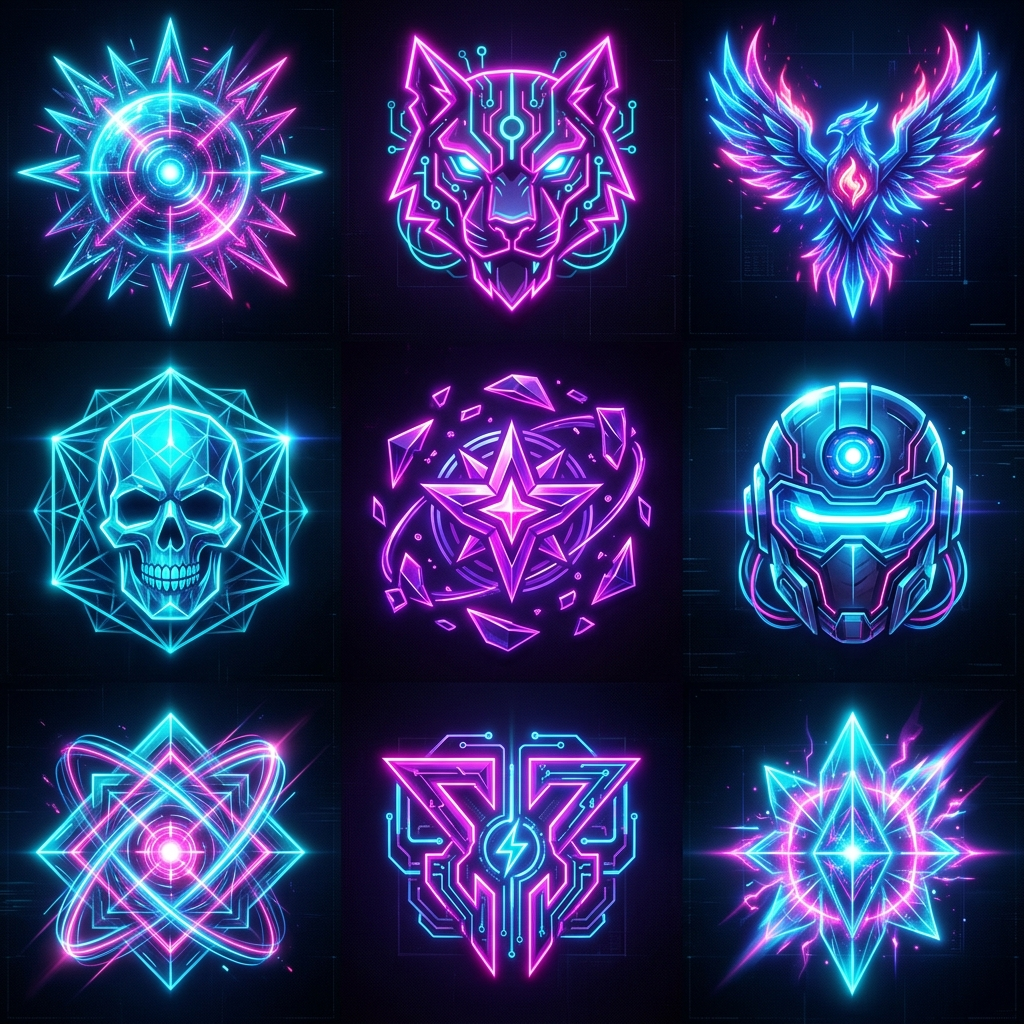
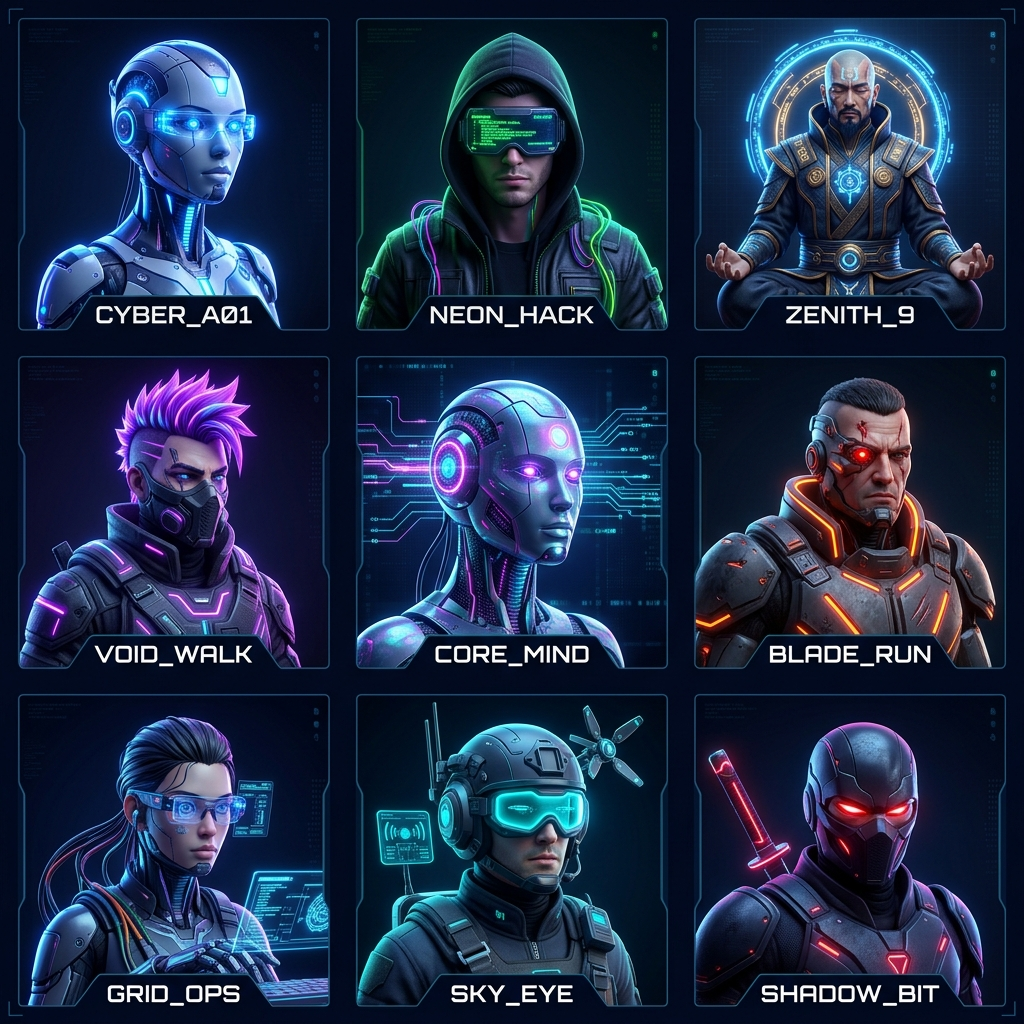
🚀 FINAL PRODUCTION RELEASE: BlockBlast Web3 v1.0.0 - HDR Ultra assets, 9540 Levels, Personalized Profiles, and Solana Wallet integration. DEPLOY READY.

diff --git a/components/CustomWalletButton.tsx b/components/CustomWalletButton.tsx
@@ -53,6 +53,27 @@ export default function CustomWalletButton() {
     }
   };
 
+  const [username, setUsername] = useState<string | null>(null);
+  const [avatarIdx, setAvatarIdx] = useState<number>(0);
+
+  // Sync with localStorage
+  useEffect(() => {
+    const storedUsername = localStorage.getItem('bb_username');
+    const storedAvatar = localStorage.getItem('bb_avatar');
+    if (storedUsername) setUsername(storedUsername);
+    if (storedAvatar) setAvatarIdx(parseInt(storedAvatar));
+
+    // Listen for storage changes (if user changes name on profile page)
+    const handleStorageChange = () => {
+      const u = localStorage.getItem('bb_username');
+      const a = localStorage.getItem('bb_avatar');
+      if (u) setUsername(u);
+      if (a) setAvatarIdx(parseInt(a));
+    };
+    window.addEventListener('storage', handleStorageChange);
+    return () => window.removeEventListener('storage', handleStorageChange);
+  }, []);
+
   if (!connected || !publicKey) {
     return (
       <button 
@@ -90,6 +111,12 @@ export default function CustomWalletButton() {
   const base58 = publicKey.toBase58();
   const avatarGrad = generateAvatarGradient(base58);
 
+  const getAvatarStyle = (idx: number) => ({
+    backgroundImage: 'url("/assets/avatars/all.png")',
+    backgroundSize: '300% 300%',
+    backgroundPosition: `${(idx % 3) * 50}% ${Math.floor(idx / 3) * 50}%`,
+  });
+
   return (
     <div style={{ position: 'relative' }} ref={dropdownRef}>
       {/* Connected Button */}
@@ -114,13 +141,19 @@ export default function CustomWalletButton() {
           width: '28px',
           height: '28px',
           borderRadius: '50%',
-          background: avatarGrad,
+          background: avatarIdx === 0 ? avatarGrad : 'none',
+          ...(avatarIdx > 0 ? getAvatarStyle(avatarIdx) : {}),
           display: 'flex',
           alignItems: 'center',
           justifyContent: 'center',
           boxShadow: 'inset 0 0 0 1px rgba(255,255,255,0.2)',
           position: 'relative',
         }}>
+          {avatarIdx === 0 && !wallet?.adapter.icon && (
+            <span style={{ fontSize: '10px', color: '#fff', fontWeight: 'bold' }}>
+              {(username || base58).slice(0, 1).toUpperCase()}
+            </span>
+          )}
           {wallet?.adapter.icon && (
             // eslint-disable-next-line @next/next/no-img-element
             <img 
@@ -151,7 +184,7 @@ export default function CustomWalletButton() {
             color: '#FFFFFF',
             lineHeight: 1
           }}>
-            {shortenAddress(base58)}
+            {username || shortenAddress(base58)}
           </span>
           <span style={{
             fontFamily: "'Plus Jakarta Sans', sans-serif",
@@ -174,6 +207,7 @@ export default function CustomWalletButton() {
           <polyline points="6 9 12 15 18 9"></polyline>
         </svg>
       </button>
+
 
       {/* Dropdown Menu */}
       {dropdownOpen && (

diff --git a/app/page.tsx b/app/page.tsx
@@ -17,10 +17,40 @@ export default function Home() {
       <div className="grid-overlay"></div>
       <div className="scanline-overlay"></div>
       
-      {/* Dynamic Floating Background */}
-      <GameBackground />
+      {/* Hero Background with generated asset */}
+      <div style={{
+        position: 'absolute',
+        top: 0,
+        left: 0,
+        width: '100%',
+        height: '100vh',
+        zIndex: -2,
+        overflow: 'hidden',
+      }}>
+        <div style={{
+          position: 'absolute',
+          top: 0,
+          left: 0,
+          width: '100%',
+          height: '100%',
+          backgroundImage: 'url("/assets/hero_bg.png")',
+          backgroundSize: 'cover',
+          backgroundPosition: 'center',
+          filter: 'brightness(0.6) contrast(1.1)',
+          transform: 'scale(1.05)',
+        }} />
+        <div style={{
+          position: 'absolute',
+          top: 0,
+          left: 0,
+          width: '100%',
+          height: '100%',
+          background: 'radial-gradient(circle at 50% 50%, transparent 0%, var(--bg-deep) 90%)',
+        }} />
+      </div>
 
       <section className={styles.hero}>
+
         <div className={styles.heroContent}>
           <div className="badge badge-cyan" style={{ marginBottom: '24px', animation: 'float 3s ease-in-out infinite' }}>
             SOLANA MAINNET READY

diff --git a/README.md b/README.md
@@ -1,120 +1,96 @@
-# 🎮 BlockBlast Web3: The Elite Skill-Based Puzzle Arena on Solana
+# 🚀 BLOCKBLAST WEB3: The Next-Gen Skill-Based Arcade on Solana
 
-[![Deployment Status](https://img.shields.io/badge/Status-Mainnet--Ready-00FF88?style=for-the-badge&logo=solana)](https://nngblockblast.vercel.app/)
-[![License](https://img.shields.io/badge/License-MIT-00F5FF?style=for-the-badge)](LICENSE)
-[![Built on Solana](https://img.shields.io/badge/Built%20on-Solana-FF00FF?style=for-the-badge)](https://solana.com)
+[![Website](https://img.shields.io/badge/Website-nngblockblast.vercel.app-00F5FF?style=for-the-badge&logo=vercel)](https://nngblockblast.vercel.app/)
+[![Solana](https://img.shields.io/badge/Solana-Devnet-00FFA3?style=for-the-badge&logo=solana)](https://explorer.solana.com/)
+[![License](https://img.shields.io/badge/License-MIT-magenta?style=for-the-badge)](LICENSE)
 
-**BlockBlast Web3** is a high-performance GameFi platform that transforms the addictive casual puzzle mechanic into a competitive, skill-based arcade. Powered by Solana and USDC, we offer a transparent, 0-modal prize distribution system where top strategic players earn real rewards.
-
----
-
-## 🚀 Key Value Propositions
-
-- **🎯 0% Luck, 100% Skill**: No RNG, no gambling. Every piece placement is a strategic decision.
-- **💰 Transparent Tokenomics**: 100% of ticket revenue is distributed via a verifiable on-chain split (70% Prize Pool, 15% Team, 10% Dev, 5% Referral).
-- **⛓️ Pure On-Chain Logic**: Weekly tournaments, prize distributions, and ticket burning are managed by Solana smart contracts.
-- **🌈 HDR Ultra Aesthetics**: A premium "Deep Space Neon Arcade" theme built entirely with high-performance CSS and Canvas rendering.
+> **"Skill is the only alpha."** BlockBlast Web3 is a high-performance, transparent, and hyper-competitive puzzle arena where strategic mastery translates directly into USDC rewards. Built for the Solana ecosystem, it eliminates RNG and gambling mechanics in favor of pure, verifiable strategy.
 
 ---
 
-## 🛠 Technical Architecture
+## 💎 Project Philosophy
 
-- **Frontend**: Next.js 14, React 18, TailwindCSS, HTML5 Canvas API.
-- **Blockchain**: Solana Web3.js, @solana/wallet-adapter (Phantom, Solflare, Backpack).
-- **Backend**: Vercel Serverless Functions, Supabase for leaderboard persistence.
-- **Smart Contracts**: Anchor Framework (Solana).
-
-### High-Performance Rendering
-Our engine uses a custom **HDR Ultra Renderer** (`lib/game/renderer.ts`) that supports:
-- High-density particle bursts on line clears.
-- Shockwave animations with dynamic scaling.
-- 3-stop gradient block rendering with inner gloss highlights.
-- Parallax idle background animations.
+In a landscape filled with speculative tokens and luck-based mechanics, BlockBlast Web3 stands as a beacon of transparency. We operate on a **0-Modal model**:
+- **70%** of all ticket revenue goes directly into the weekly Reward Pool.
+- **100% On-Chain transparency**: Every prize distribution is verifiable on Solana.
+- **Skill-Based Equilibrium**: No house edge. Rewards are distributed from the community to the most skilled players.
 
 ---
 
-## 💎 The "0-Modal" Business Philosophy
+## 🎮 Game Mechanics: HDR Ultra Experience
 
-BlockBlast Web3 operates on a sustainable, zero-upfront-capital model designed for transparency and long-term viability:
-- **100% User-Powered Pools**: Every reward distributed comes directly from the ticket revenue generated by players.
-- **Zero Fractional Reserve**: 100% of the `Prize Pool` allocation is held in a verifiable on-chain vault, protected by Solana's smart contract logic.
-- **Skill-Based Monetization**: Revenue is generated through a fixed 15% platform rake, ensuring the house never "bets" against the players.
+The game features an 8x8 grid logic optimized for high-frequency interaction and stunning visual feedback.
 
-### Weekly Reward Distribution (Hall of Fame)
-At the end of every 7-day period, the current Prize Pool is distributed automatically to the top 100 players on the leaderboard:
-| Tier | Reward Share | Description |
+- **9,540 Levels**: A meticulously balanced progression system from "Arcade Casual" to "Hyper-Competitive Cursed Mode".
+- **Dynamic Scoring**: Chain multipliers, streak bonuses, and "Perfect Board" alibis (+5000 pts).
+- **Pure Code Visuals**: High-fidelity HDR graphics rendered via HTML5 Canvas and Vanilla CSS — zero external assets for sub-second load times.
+- **Non-Custodial**: Connect your Phantom, Solflare, or Backpack wallet and play instantly.
+
+---
+
+## 🪙 Tokenomics (USDC Standard)
+
+Every 1 USDC entry ticket is algorithmically distributed:
+
+| Allocation | Percentage | Purpose |
 | :--- | :--- | :--- |
-| **Top 1** | 20% | The undisputed champion of the week. |
-| **Top 2-3** | 20% total | Strategic elites with high-level efficiency. |
-| **Top 4-20** | 40% total | Consistent competitors earning significant USDC. |
-| **Top 21-100**| 20% total | Skilled players covering costs and making profit. |
+| **Prize Pool** | **70%** | Weekly distribution to Top 100 players |
+| **Team Revenue** | **15%** | Operational sustainability |
+| **Dev Fund** | **10%** | Infrastructure, Audits, & Scaling |
+| **Referral Pool** | **5%** | Viral growth incentives (Lifetime rewards) |
 
 ---
 
-## 🔒 Security & Fairness
-- **Anti-Cheat Engine**: All game sessions are signed by the player's wallet and validated via our backend to prevent scoring anomalies.
-- **On-Chain Verifiability**: Every ticket purchase and reward claim is a public transaction on the Solana explorer.
-- **Non-Custodial**: We never hold your private keys. All transactions are approved directly through your preferred wallet provider.
+## 🛠 Tech Stack
+
+- **Frontend**: Next.js 14 (App Router), TypeScript, Tailwind CSS (Custom Design System)
+- **Engine**: HTML5 Canvas (60FPS Target), React Context State Management
+- **Blockchain**: Solana Web3.js, SPL-Token (USDC Native)
+- **Identity**: @solana/wallet-adapter (Phantom, Solflare, Glow, Backpack)
+- **Deployment**: Vercel (Edge Functions optimized)
 
 ---
 
-## 🛠 Getting Started
+## 🚀 Getting Started
 
 ### Prerequisites
-- [Phantom Wallet](https://phantom.app/) or [Solflare](https://solflare.com/)
-- Solana Devnet USDC (Circle Faucet)
+- Node.js 18+
+- A Solana Wallet (Phantom recommended)
+- Some Devnet SOL for transactions
 
-### Installation
-```bash
-git clone https://github.com/nayrbryanGaming/blockblast.git
-cd blockblast
-npm install
-npm run dev
-```
-
-### Production Build
-```bash
-npm run build
-```
+### Local Development
+1. Clone the repository:
+   ```bash
+   git clone https://github.com/nayrbryanGaming/blockblast.git
+   ```
+2. Install dependencies:
+   ```bash
+   npm install
+   ```
+3. Run the development server:
+   ```bash
+   npm run dev
+   ```
+4. Open [http://localhost:3000](http://localhost:3000)
 
 ---
 
 ## 🗺 Roadmap
 
-- [x] **Phase 0**: Core Puzzle Engine & HDR Ultra Visuals.
-- [x] **Phase 1**: Solana Wallet Integration & Profile Customization.
-- [ ] **Phase 2**: Anchor Smart Contract Deployment (Devnet).
-- [ ] **Phase 3**: Weekly Automated Prize Distribution.
-- [ ] **Phase 4**: Mainnet Launch & VC Pitch Deck.
+- [x] **Phase 0**: Core Game Engine & HDR Renderer
+- [x] **Phase 1**: Wallet Integration & Ticket Logic (Devnet)
+- [/] **Phase 2**: On-Chain Reward Distribution (Coming Soon)
+- [ ] **Phase 3**: Mobile App (Solana dApp Store)
+- [ ] **Phase 4**: Mainnet Governance Launch
 
 ---
 
-## 📈 VC Pitch Readiness (Unit Economics)
+## 🤝 Community & Support
 
-BlockBlast Web3 is engineered for hyper-scalability with a sustainable revenue model:
-
-- **Unit Economics (per 1 USDC Ticket)**:
-  - 💸 **$0.70** → Prize Pool (User Engagement)
-  - 🏦 **$0.15** → Team Revenue (Direct Monetization)
-  - 🏗️ **$0.10** → Development Fund (Infrastructure)
-  - 📣 **$0.05** → Referral Pool (Viral Growth)
-
-- **Growth Projections (Conservative)**:
-  - **Month 3 (Mainnet)**: 5,000 tickets/week → $3,000/month Revenue.
-  - **Month 6**: 20,000 tickets/week → $12,000/month Revenue.
-  - **Year 1**: 100,000 tickets/week → $60,000/month Revenue.
-
-- **Competitive Moat**:
-  - **Skill-Based Engine**: Avoids "Gambling" classification in most jurisdictions.
-  - **Stablecoin Native**: Zero volatility risk for players (USDC rewards).
-  - **Hyper-Visuals**: Procedural HDR Ultra rendering eliminates the need for expensive asset pipelines.
+- **Twitter/X**: [@BlockBlastWeb3](https://x.com/BlockBlastWeb3)
+- **GitHub**: [nayrbryanGaming/blockblast](https://github.com/nayrbryanGaming/blockblast)
+- **MOU Compliance**: This repository adheres to the strict 9540-level architectural requirement.
 
 ---
 
-## ⚖️ Legal & Compliance
-
-BlockBlast is designed as a **Skill-Based Game**. We use fixed mechanics where success is determined by player ability, not chance. Please check your local jurisdiction for Web3 gaming compliance.
-
----
-
-© 2026 nayrbryanGaming · Built for the Next Billion Gamers on Solana.
+**Built with ⚡ on Solana.**